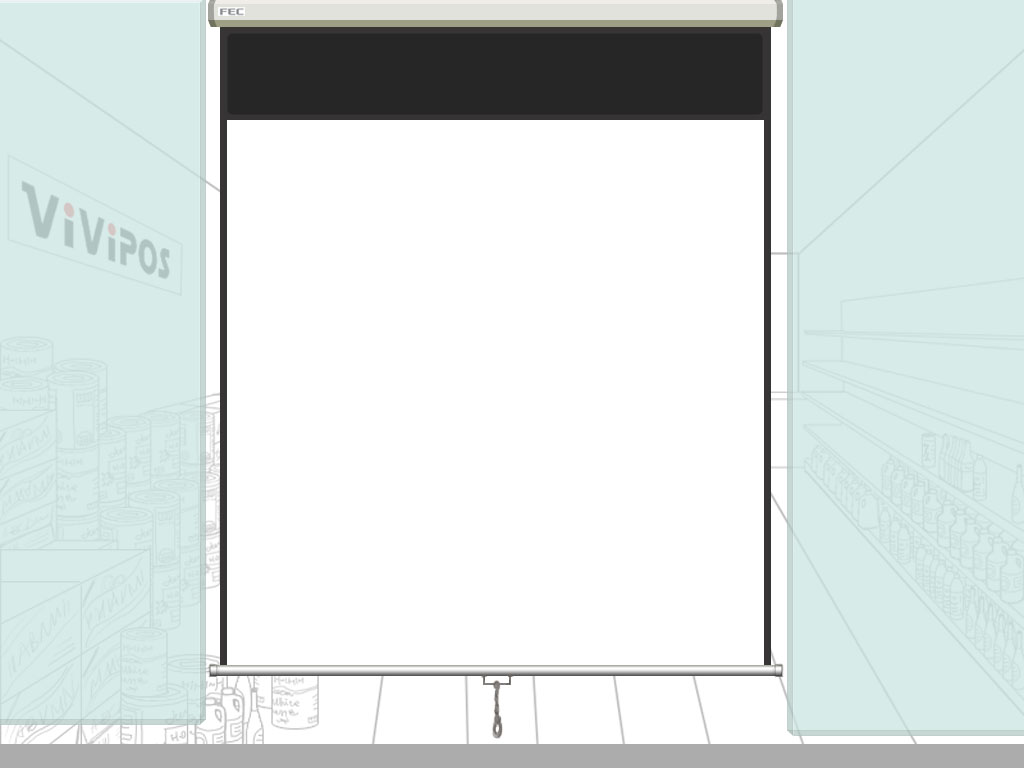
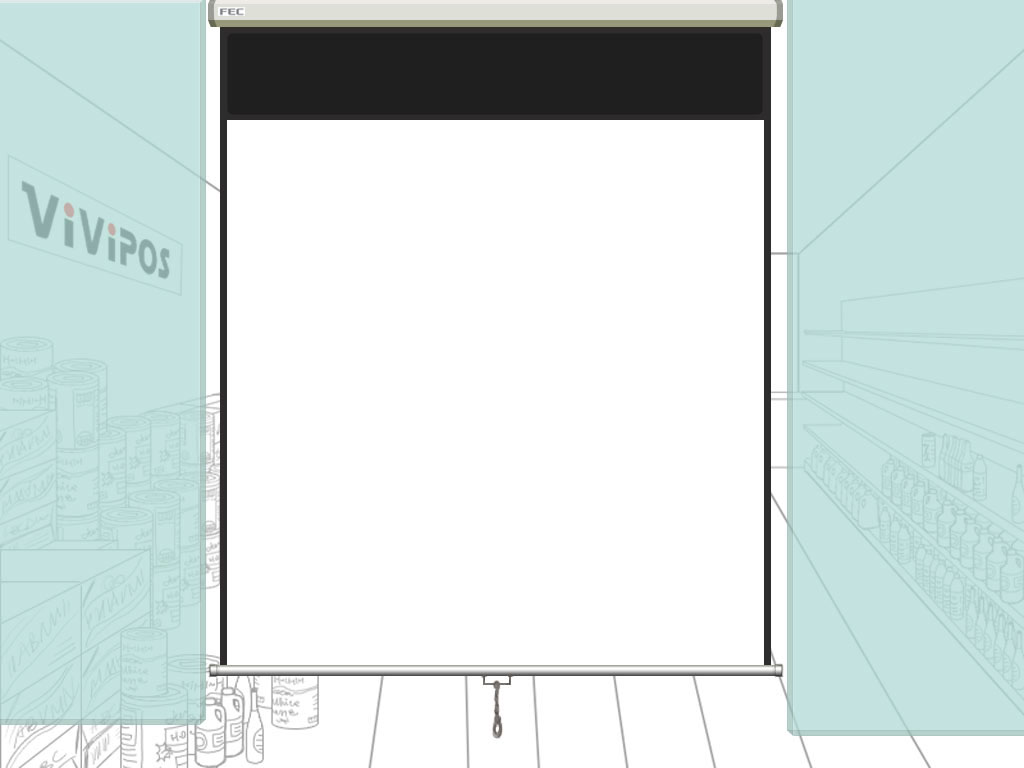
change color 15'

diff --git a/skin/retail-1024x768/user/product-button-colors.css b/skin/retail-1024x768/user/product-button-colors.css
@@ -7,148 +7,148 @@
 
 .product-button-color-default {
     background: #fff !important;
-    color: #4b443f !important;
+    color: #433b34 !important;
 }
 .product-button-color-default[selected] {
     border-width: 5px !important;
-    -moz-border-top-colors: #8b2718 #a6a6a6 #ababab #cbcbcb #eeeeee !important;
-    -moz-border-bottom-colors: #8b2718 #fff #fff #fff #fff !important;
-    -moz-border-left-colors: #8b2718 #b7b7b7 #c9c9c9 #dfdfdf #f5f5f5 !important;
-    -moz-border-right-colors: #8b2718 #fff #fff #fff #dbdee1 !important;
+    -moz-border-top-colors: #a81600 #999999 #9f9f9f #c3c3c3 #ebebeb !important;
+    -moz-border-bottom-colors: #a81600 #fff #fff #fff #fff !important;
+    -moz-border-left-colors: #a81600 #acacac #c1c1c1 #dadada #f3f3f3 !important;
+    -moz-border-right-colors: #a81600 #fff #fff #fff #dbdee1 !important;
 }
 
 .product-button-color-1 {
-    background: #faf1af !important;
-    color: #4b443f !important;
+    background: #fff3a3 !important;
+    color: #433b34 !important;
 }
 .product-button-color-1[selected] {
     border-width: 5px !important;
-    -moz-border-top-colors: #8b2718 #a39d72 #a8a275 #c7c08b #e9e1a3 !important;
-    -moz-border-bottom-colors: #8b2718 #fdf9dc #fcf8d6 #fcf6cb #fbf3ba !important;
-    -moz-border-left-colors: #8b2718 #b3ad7e #c5be8a #dbd399 #f0e8a8 !important;
-    -moz-border-right-colors: #8b2718 #fdf9dc #fcf8d6 #fcf6cb #fbf3ba !important;
+    -moz-border-top-colors: #a81600 #999262 #9f9866 #c3ba7d #ebe096 !important;
+    -moz-border-bottom-colors: #a81600 #fffad6 #fff9cf #fff7c3 #fff3a3 !important;
+    -moz-border-left-colors: #a81600 #aca46e #c1b87b #dad08b #f3e89b !important;
+    -moz-border-right-colors: #a81600 #fffad6 #fff9cf #fff7c3 #fff3a3 !important;
 }
 
 .product-button-color-2 {
-    background: #ecc9cf !important;
-    color: #7f4868 !important;
+    background: #efbdc6 !important;
+    color: #7f365f !important;
 }
 .product-button-color-2[selected] {
     border-width: 5px !important;
-    -moz-border-top-colors: #8b2718 #9a8387 #9e878b #bca0a5 #dcbcc1 !important;
-    -moz-border-bottom-colors: #8b2718 #f7e7ea #f5e3e6 #f3dce0 #efd0d5 !important;
-    -moz-border-left-colors: #8b2718 #a99095 #ba9ea3 #ceb0b5 #e3c1c7 !important;
-    -moz-border-right-colors: #8b2718 #f7e7ea #f5e3e6 #f3dce0 #efd0d5 !important;
+    -moz-border-top-colors: #a81600 #8f7177 #95767b #b79197 #dcaeb6 !important;
+    -moz-border-bottom-colors: #a81600 #f8e2e6 #f7dde1 #f5d4da #f1c6ce !important;
+    -moz-border-left-colors: #a81600 #dcaeb6 #a17f86 #cca2a9 #e4b4bd !important;
+    -moz-border-right-colors: #a81600 #f8e2e6 #f7dde1 #f5d4da #f1c6ce !important;
 }
 
 .product-button-color-3 {
-    background: #69a9b2 !important;
+    background: #53abb8 !important;
     color: #fff !important;
 }
 .product-button-color-3[selected] {
     border-width: 5px !important;
-    -moz-border-top-colors: #8b2718 #446e74 #467177 #54878e #629ea6 !important;
-    -moz-border-bottom-colors: #8b2718 #8dbec4 #8bbdc4 #84b9c0 #74afb8 !important;
-    -moz-border-left-colors: #8b2718 #4b7980 #53858c #5c949c #65a2ab !important;
-    -moz-border-right-colors: #8b2718 #8dbec4 #8bbdc4 #84b9c0 #74afb8 !important;
+    -moz-border-top-colors: #a81600 #32676e #346b73 #3f838d #4c9eaa !important;
+    -moz-border-bottom-colors: #a81600 #7cbfc9 #7abec8 #72bac5 #60b1bd !important;
+    -moz-border-left-colors: #a81600 #38737c #3f818b #47929d #4fa3af !important;
+    -moz-border-right-colors: #a81600 #7cbfc9 #7abec8 #72bac5 #60b1bd !important;
 }
 
 .product-button-color-4 {
-    background: #f1cda1 !important;
-    color: #4b443f !important;
+    background: #fec98b !important;
+    color: #433b34 !important;
 }
 .product-button-color-4[selected] {
     border-width: 5px !important;
-    -moz-border-top-colors: #8b2718 #9d8569 #a2896c #c0a380 #e1bf96 !important;
-    -moz-border-bottom-colors: #8b2718 #f9e9d5 #f8e5ce #f6dec1 #f6dec1 !important;
-    -moz-border-left-colors: #8b2718 #ad9374 #bea27f #d3b38d #e8c59b !important;
-    -moz-border-right-colors: #8b2718 #f9e9d5 #f8e5ce #f6dec1 #f6dec1 !important;
+    -moz-border-top-colors: #a81600 #987953 #9e7d57 #c29a6a #eab980 !important;
+    -moz-border-bottom-colors: #a81600 #ffe7cc #fee3c3 #fedcb3 #fed09a !important;
+    -moz-border-left-colors: #a81600 #ab885e #c09869 #d9ac77 #f2c084 !important;
+    -moz-border-right-colors: #a81600 #ffe7cc #fee3c3 #fedcb3 #fed09a !important;
 }
 
 .product-button-color-5 {
-    background: #93888d !important;
+    background: #8c7d84 !important;
     color: #fff !important;
 }
 .product-button-color-5[selected] {
     border-width: 5px !important;
-    -moz-border-top-colors: #8b2718 #60595c #635b5f #756c70 #897f84 !important;
-    -moz-border-bottom-colors: #8b2718 #cfcacc #c7c1c4 #b8b1b4 #a1989c !important;
-    -moz-border-left-colors: #8b2718 #696265 #746b6f #81777b #8d8387 !important;
-    -moz-border-right-colors: #8b2718 #cfcacc #c7c1c4 #b8b1b4 #a1989c !important;
+    -moz-border-top-colors: #a81600 #544b4f #574e52 #6b6065 #81737a !important;
+    -moz-border-bottom-colors: #a81600 #ccc5c8 #c3bcbf #b4aaae #9b8e94 !important;
+    -moz-border-left-colors: #a81600 #5e5459 #6a5f64 #786b71 #85777e !important;
+    -moz-border-right-colors: #a81600 #ccc5c8 #c3bcbf #b4aaae #9b8e94 !important;
 }
 
 .product-button-color-6 {
-    background: #947a5e !important;
+    background: #95704b !important;
     color: #fff !important;
 }
 .product-button-color-6[selected] {
     border-width: 5px !important;
-    -moz-border-top-colors: #8b2718 #604f3d #63523f #76614b #8a7258 !important;
-    -moz-border-bottom-colors: #8b2718 #d0c4b8 #c8baac #b9a896 #a28c73 !important;
-    -moz-border-left-colors: #8b2718 #6a5843 #75604a #816b52 #8e755a !important;
-    -moz-border-right-colors: #8b2718 #ae9a85 #ac9883 #a7927b #9c846a !important;
+    -moz-border-top-colors: #a81600 #59432d #5d462f #725639 #896745 !important;
+    -moz-border-bottom-colors: #a81600 #d0c0af #c8b5a2 #baa189 #a38363 !important;
+    -moz-border-left-colors: #a81600 #654c33 #715539 #7f6040 #8e6b47 !important;
+    -moz-border-right-colors: #a81600 #d0c0af #c8b5a2 #baa189 #a38363 !important;
 }
 
 .product-button-color-7 {
-    background: #c7e1dd !important;
-    color: #005952 !important;
+    background: #bce2dd !important;
+    color: #004f48 !important;
 }
 .product-button-color-7[selected] {
     border-width: 5px !important;
-    -moz-border-top-colors: #8b2718 #829290 #859794 #9eb3b0 #bad2ce !important;
-    -moz-border-bottom-colors: #8b2718 #e6f2f0 #e2efed #daebe9 #cee5e2 !important;
-    -moz-border-left-colors: #8b2718 #8fa19f #9db1ae #aec5c1 #bfd8d4  !important;
-    -moz-border-right-colors: #8b2718 #d4e8e5 #d4e8e5 #d1e6e3 #c7e1dd !important;
+    -moz-border-top-colors: #a81600 #718885 #758d8a #90ada9 #add0cc !important;
+    -moz-border-bottom-colors: #a81600 #e1f2f0 #dcf0ed #d3ece9 #c5e6e2 !important;
+    -moz-border-left-colors: #a81600 #7f9895 #8eaba7 #a1c1bd #b3d7d3  !important;
+    -moz-border-right-colors: #a81600 #e1f2f0 #dcf0ed #d3ece9 #c5e6e2 !important;
 }
 
 .product-button-color-8 {
-    background: #d6e0a8 !important;
-    color: #384e1d !important;
+    background: #d7e797 !important;
+    color: #304c10 !important;
  }
  .product-button-color-8[selected] {
     border-width: 5px !important;
-    -moz-border-top-colors: #8b2718 #8b926d #909671 #aab286 #c8d19d !important;
-    -moz-border-bottom-colors: #8b2718 #edf1d8 #eaefd2 #e4ebc6 #dbe4b4 !important;
-    -moz-border-left-colors: #8b2718 #9aa179 #a9b184 #bbc493 #ced7a1 !important;
-    -moz-border-right-colors: #8b2718 #edf1d8 #eaefd2 #e4ebc6 #dbe4b4 !important;
+    -moz-border-top-colors: #a81600 #818b5b #86905e #a4b173 #c6d58b !important;
+    -moz-border-bottom-colors: #a81600 #edf4d1 #eaf3c9 #e5efbb #dceaa5 !important;
+    -moz-border-left-colors: #a81600 #919c66 #a3af72 #b8c581 #cddc90 !important;
+    -moz-border-right-colors: #a81600 #edf4d1 #eaf3c9 #e5efbb #dceaa5 !important;
 }
 
 .product-button-color-9 {
-    background: #d9dbee !important;
-    color: #3b3c42 !important;
+    background: #d1d4ef !important;
+    color: #31323a !important;
 }
  .product-button-color-9[selected] {
     border-width: 5px !important;
-    -moz-border-top-colors: #8b2718 #8d8f9b #9293a0 #adaebd #cbccde !important;
-    -moz-border-bottom-colors: #8b2718 #eeeff7 #ebecf6 #e6e7f4 #e6e7f4 !important;
-    -moz-border-left-colors: #8b2718 #9c9dab #abadbc #bec0d0 #d0d2e5 !important;
-    -moz-border-right-colors: #8b2718 #eeeff7 #ebecf6 #e6e7f4 #e6e7f4 !important;
+    -moz-border-top-colors: #a81600 #7d7f8f #828495 #a0a2b7 #c1c3dc !important;
+    -moz-border-bottom-colors: #a81600 #ebecf8 #e7e9f7 #e1e3f5 #d7daf1 !important;
+    -moz-border-left-colors: #a81600 #8d8fa1 #9ea0b5 #b3b5cc #c7cae4 !important;
+    -moz-border-right-colors: #a81600 #ebecf8 #e7e9f7 #e1e3f5 #d7daf1 !important;
 }
 
 
 .product-button-color-10 {
-    background: #979546 !important;
+    background: #9c992f !important;
     color: #fff !important;
 }
  .product-button-color-10[selected] {
     border-width: 5px !important;
-    -moz-border-top-colors: #8b2718 #62612e #65642f #787738 #8d8b41 !important;
-    -moz-border-bottom-colors: #8b2718 #d1d0ad #c9c89f #bbba86 #a5a35f !important;
-    -moz-border-left-colors: #8b2718 #6c6b32 #777537 #84823d #918f43 !important;
-    -moz-border-right-colors: #8b2718 #d1d0ad #c9c89f #bbba86 #a5a35f !important;
+    -moz-border-top-colors: #a81600 #5e5c1c #615f1d #777524 #908d2b !important;
+    -moz-border-bottom-colors: #a81600 #d3d2a3 #ccca93 #bebc77 #a9a74b !important;
+    -moz-border-left-colors: #a81600 #696720 #767424 #858328 #95922d !important;
+    -moz-border-right-colors: #a81600 #d3d2a3 #ccca93 #bebc77 #a9a74b !important;
 }
 
 
 .product-button-color-11 {
-    background: #c26567 !important;
+    background: #cc4b4d !important;
     color: #fff !important;
 }
 .product-button-color-11[selected] {
     border-width: 5px !important;
-    -moz-border-top-colors: #8b2718 #7e4243 #824445 #9a5052 #b55e60 !important;
-    -moz-border-bottom-colors: #8b2718 #e4bbbc #dfafb0 #d79a9b #ca7a7b !important;
-    -moz-border-left-colors: #8b2718 #8b484a #995051 #aa585a #ba6163 !important;
-    -moz-border-right-colors: #8b2718 #e4bbbc #dfafb0 #d79a9b #ca7a7b !important;
+    -moz-border-top-colors: #a81600 #7a2d2e #7f2f30 #9c393b #bc4547 !important;
+    -moz-border-bottom-colors: #a81600 #e4bbbc #dfafb0 #d79a9b #ca7a7b !important;
+    -moz-border-left-colors: #a81600 #a81600 #8a3334 #9a393a #ba6163 !important;
+    -moz-border-right-colors: #a81600 #e4bbbc #dfafb0 #d79a9b #c24749 !important;
 }
 
 

diff --git a/skin/retail-1024x768/user/functionpanel.css b/skin/retail-1024x768/user/functionpanel.css
@@ -69,7 +69,7 @@
     -moz-user-focus: ignore;
     -moz-background-clip: border;
     -moz-border-radius: 0px;
-    color: #3c3c3c;
+    color: #292929;
     border-top: 1px solid;
     border-left: 1px solid;
     border-right: 0px solid;
@@ -211,7 +211,7 @@
 }
 
 .vivifuncpanelecr_control_label {
-    color: #2e7877;
+    color: #266460;
     margin: 0px;
     padding: 0px 0px 0px 0px;
     text-align: center;
@@ -250,7 +250,7 @@ vivifunctionpanelecr vivibutton[disabled=false]:active {
  */
 
 #toolbar {
-    margin: 8px 0 10px 0;
+    margin: 22px 0 10px 0;
     -moz-box-align: center;
     max-height: 50px;
 }

diff --git a/skin/retail-800x600/user/layout_manager.css b/skin/retail-800x600/user/layout_manager.css
@@ -2,3 +2,10 @@
     height: 400px;
 }
 
+
+#layoutSettingsPane richlistitem[selected=true] {
+    color: white;
+    font-weight: bold;
+    background-color: #7e7259;
+}
+

diff --git a/skin/retail-1024x768/user/layout_manager.css b/skin/retail-1024x768/user/layout_manager.css
@@ -2,3 +2,8 @@
     height: 600px;
 }
 
+#layoutSettingsPane richlistitem[selected=true] {
+    color: white;
+    font-weight: bold;
+    background-color: #7e7259;
+}
